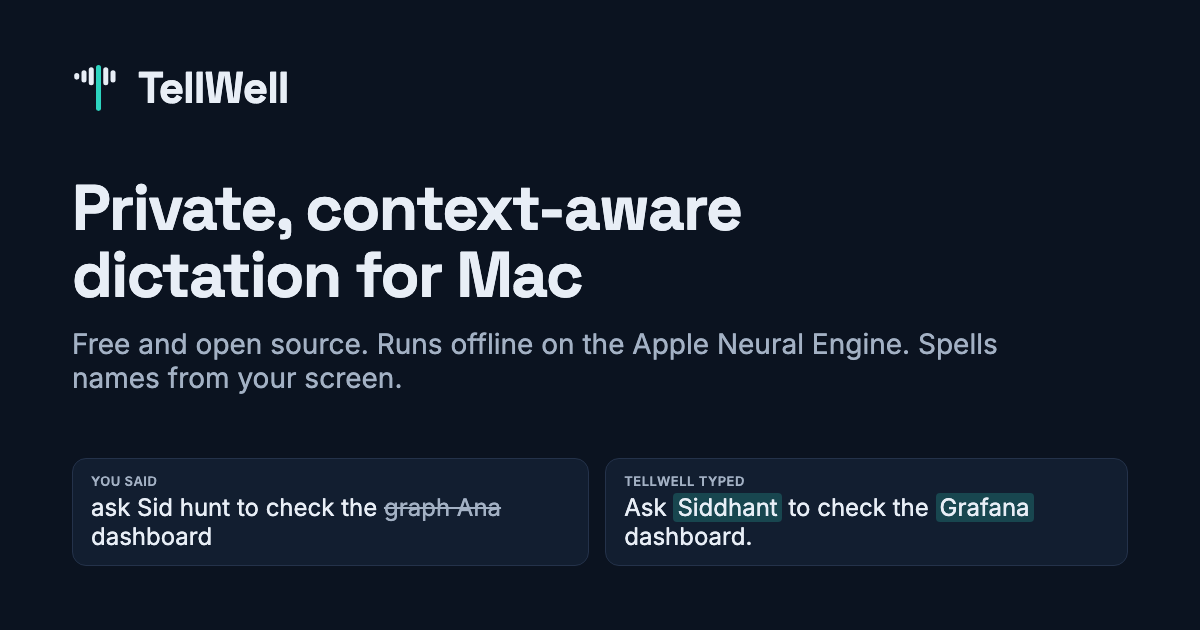
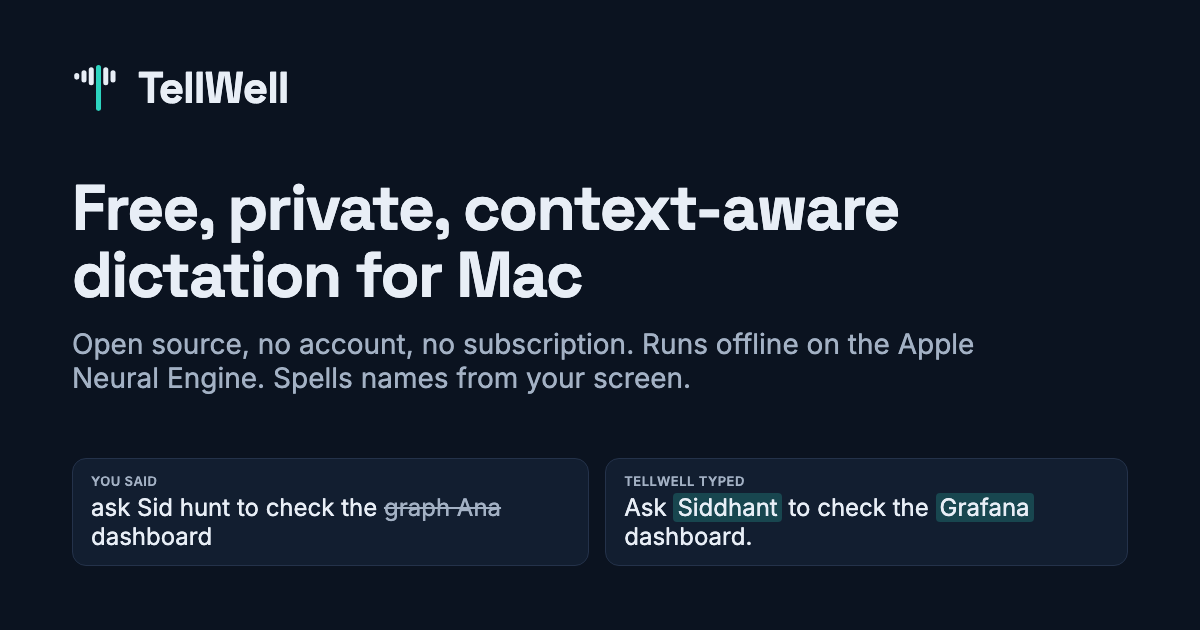
Website: lead the tagline with Free
"Free, private, context-aware dictation for Mac" in the kicker, page
title, social titles and preview image.

Changed region(s): [[0.0617, 0.5127, 0.8325, 0.6333], [0.0617, 0.3016, 0.7708, 0.3921]]

diff --git a/docs/index.html b/docs/index.html
@@ -3,20 +3,20 @@
 <head>
 <meta charset="utf-8">
 <meta name="viewport" content="width=device-width, initial-scale=1">
-<title>TellWell: Private, Context-Aware Dictation for Mac</title>
+<title>TellWell: Free, Private, Context-Aware Dictation for Mac</title>
 <meta name="description" content="Free, open-source dictation for Mac that runs offline. Hold a key, speak, and clean text appears in any app. Context-aware: spells names from your screen.">
 <link rel="canonical" href="https://ayushpatnaikgit.github.io/tellwell/">
 <meta property="og:type" content="website">
 <meta property="og:site_name" content="TellWell">
 <meta property="og:url" content="https://ayushpatnaikgit.github.io/tellwell/">
-<meta property="og:title" content="TellWell: Private, Context-Aware Dictation for Mac">
+<meta property="og:title" content="TellWell: Free, Private, Context-Aware Dictation for Mac">
 <meta property="og:description" content="Free, open-source dictation for Mac that runs offline. Hold a key, speak, and clean text appears in any app. Context-aware: spells names from your screen.">
 <meta property="og:image" content="https://ayushpatnaikgit.github.io/tellwell/og.png">
 <meta property="og:image:width" content="1200">
 <meta property="og:image:height" content="630">
-<meta property="og:image:alt" content="TellWell: say it, and clean text appears. Private, context-aware dictation for Mac.">
+<meta property="og:image:alt" content="TellWell: say it, and clean text appears. Free, private, context-aware dictation for Mac.">
 <meta name="twitter:card" content="summary_large_image">
-<meta name="twitter:title" content="TellWell: Private, Context-Aware Dictation for Mac">
+<meta name="twitter:title" content="TellWell: Free, Private, Context-Aware Dictation for Mac">
 <meta name="twitter:description" content="Free, open-source dictation for Mac that runs offline. Hold a key, speak, and clean text appears in any app. Context-aware: spells names from your screen.">
 <meta name="twitter:image" content="https://ayushpatnaikgit.github.io/tellwell/og.png">
 <meta name="author" content="Ayush Patnaik">
@@ -262,7 +262,7 @@
   <main>
     <div class="hero">
       <div>
-        <p class="kicker">Private, context-aware dictation for Mac</p>
+        <p class="kicker">Free, private, context-aware dictation for Mac</p>
         <h1>Say it. TellWell writes it down well.</h1>
         <p class="lede">TellWell is a free, open-source dictation app for Mac that runs entirely on your computer. Hold a key, speak, and clean, punctuated text appears in whatever app you&#x27;re typing in. It is context-aware: it reads the names and terms on your screen, so it spells them right. Your voice, your words and your screen never leave your Mac.</p>
         <p class="fine" style="margin: 0 0 8px">Install TellWell and its on-device engine with one command in Terminal:</p>
